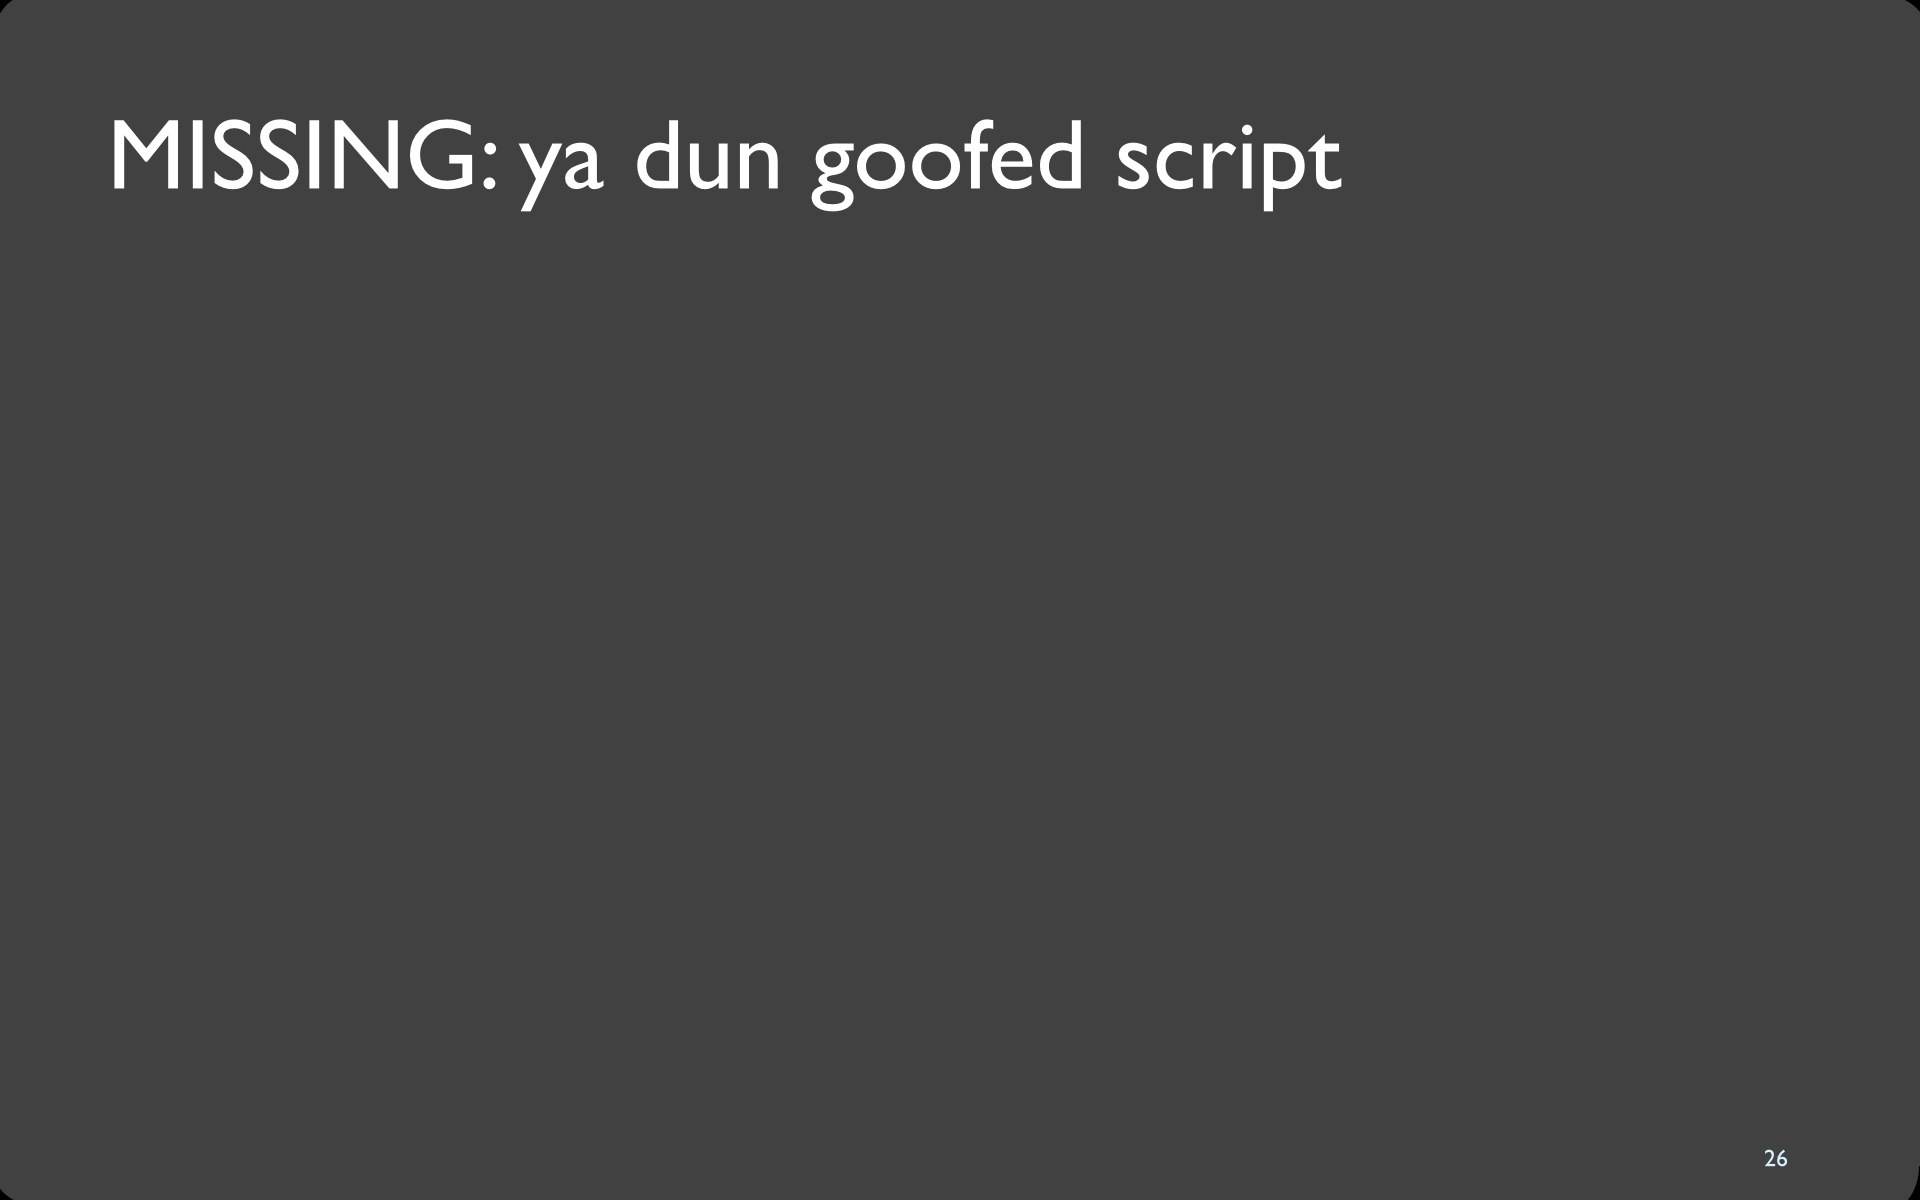
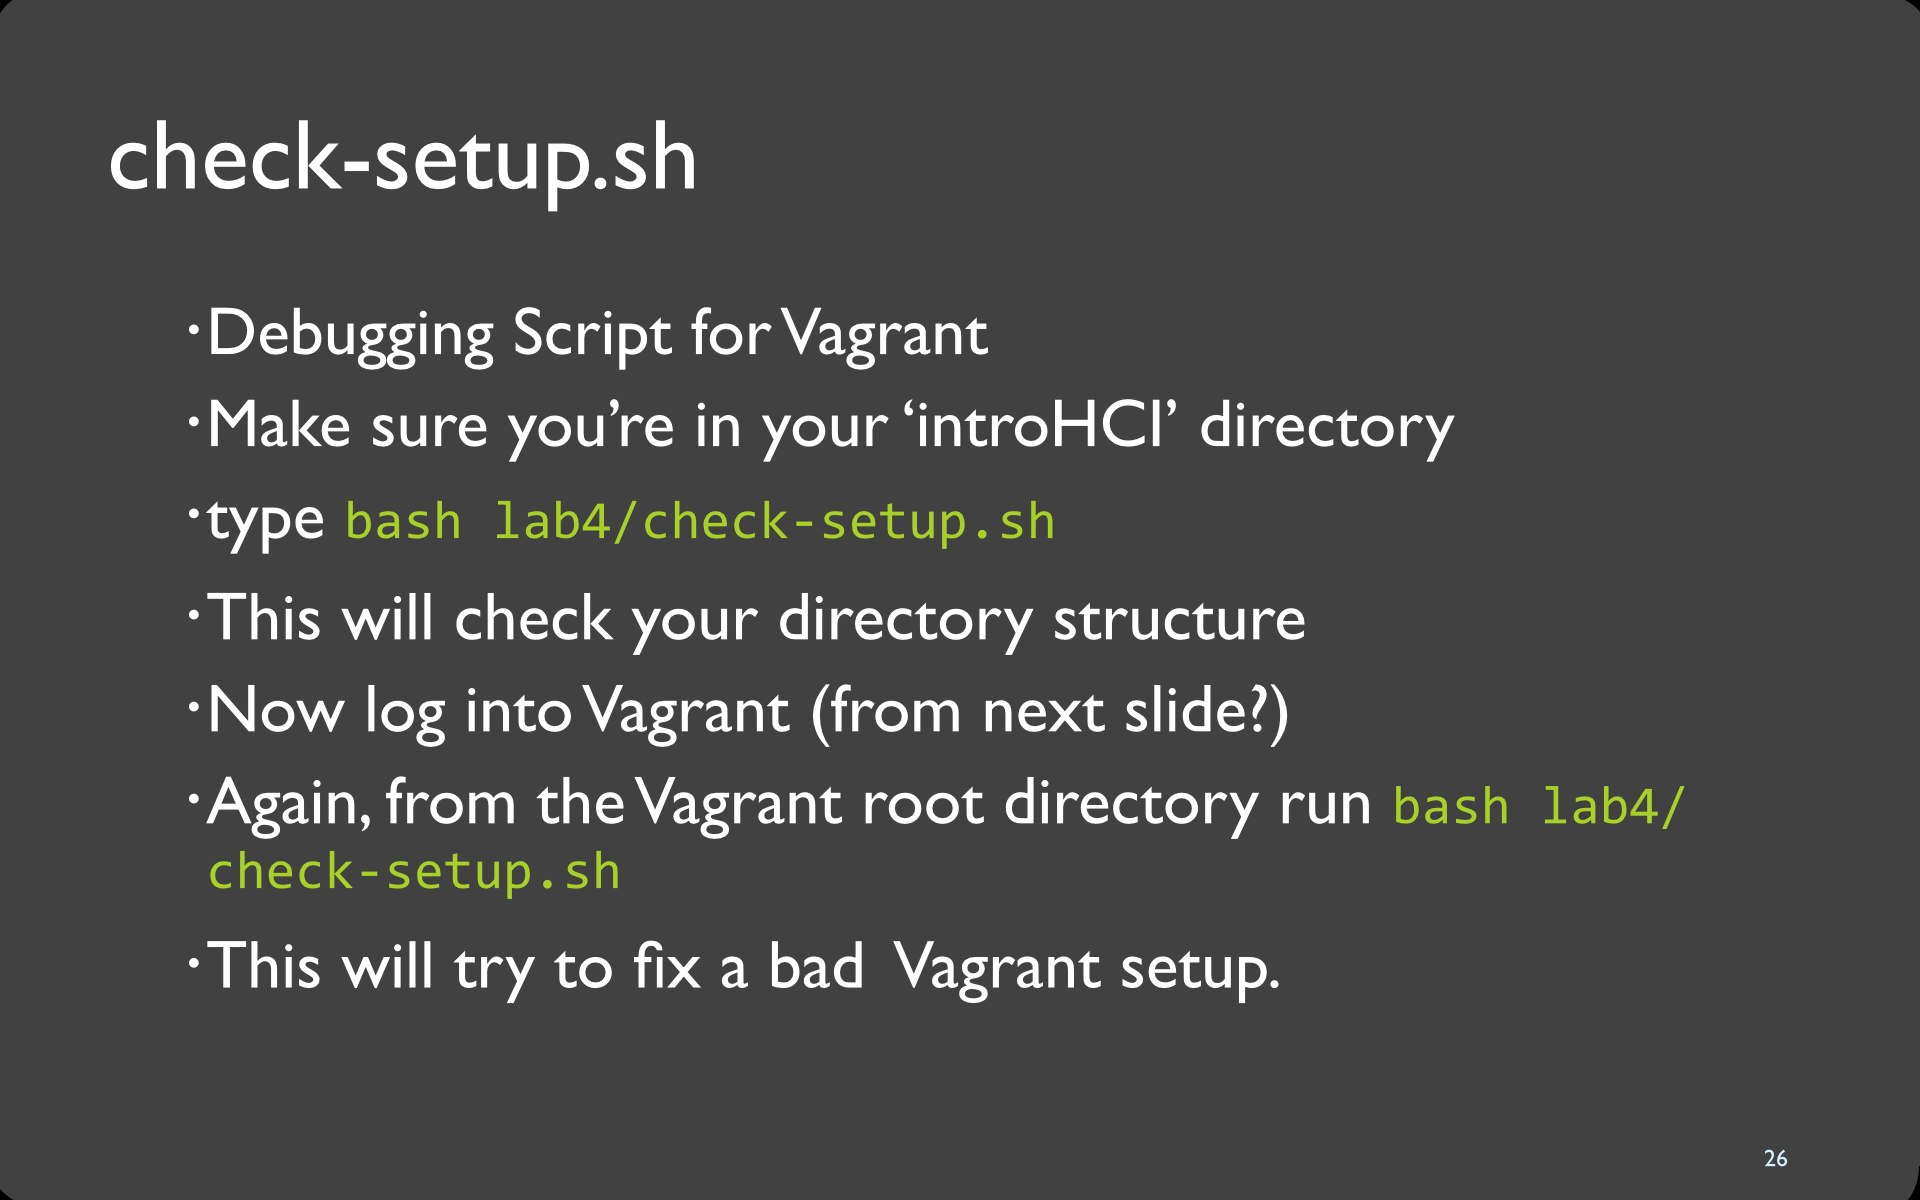
Launching Lab4 Live
Former-commit-id: fa6e5c5d4d07c0ebafd2a5339e181d4c2c8bad05
Former-commit-id: a451c25b95e6f8870425ea549eb2ef6743fb6caa
Former-commit-id: a436885919595212413f3003be64ce18ed0b29d2

diff --git a/lab/lab4/index.html b/lab/lab4/index.html
@@ -389,6 +389,19 @@
       title="26" />
     <div class="col-md-5">
       
+      <div class="code">
+        <h4>Terminal</h4>
+        <pre class='pre-scrollable'><code>$ bash lab4/check-setup.sh</code></pre>
+      </div>
+      
+      <div class="debug">
+        <h4>Debug</h4>
+        <div class="well well-sm">
+          <span class="lead"><p>I got the error <pre><code>bash: lab4/check-setup.sh: No such file or directory</code></pre></p></span>
+          <p>Make sure you're in your 'introHCI' directory and that you've cloned lab4 here.</p>
+        </div>
+      </div>
+      
     </div>
   </div>
 <hr></hr>
@@ -412,6 +425,10 @@ Express server listening on port 3000</code></pre>
         <div class="well well-sm">
           <span class="lead"><p>What's the vagrant password?</p></span>
           <p>vagrant</p>
+        </div>
+        <div class="well well-sm">
+          <span class="lead"><p>When I try to run <code>node app.js</code> I get a bunch of error messages, including the line <pre><code>Error: listen EADDRINUSE</code></pre></p></span>
+          <p>This probably happened because Node crashed.  For instance, Vagrant might have disconnected you all of a sudden.<br /> To fix this problem, tell your browser to refresh http://localhost:3000 until you get "No data received" or a similar message.  Now try starting Node again.  Everything should be fine. <br /><br />Explanation: The message <code>EADDRINUSE</code> means that Node can't start listening on port 3000 because it's already in use.  The problem is that the last instance of Node failed to properly release port 3000 when it crashed.  By refreshing the webpage, we're getting the OS to realize 'Oh, the Node server isn't using port 3000 anymore' and consequently release it.</p>
         </div>
       </div>
       
@@ -491,14 +508,6 @@ Express server listening on port 3000</code></pre>
       <div class="video">
         <h4>Video</h4>
         <video src='video/node-restart.mov' style='width:100%' controls preload="none" poster="../video-poster.jpg"></video>
-      </div>
-      
-      <div class="debug">
-        <h4>Debug</h4>
-        <div class="well well-sm">
-          <span class="lead"><p>When I try to run <code>node app.js</code> I get a bunch of error messages, including the line <pre><code>Error: listen EADDRINUSE</code></pre></p></span>
-          <p>This probably happened because Node crashed.  For instance, Vagrant might have disconnected you all of a sudden.<br /> To fix this problem, tell your browser to refresh http://localhost:3000 until you get "No data received" or a similar message.  Now try starting Node again.  Everything should be fine. <br /><br />Explanation: The message <code>EADDRINUSE</code> means that Node can't start listening on port 3000 because it's already in use.  The problem is that the last instance of Node failed to properly release port 3000 when it crashed.  By refreshing the webpage, we're getting the OS to realize 'Oh, the Node server isn't using port 3000 anymore' and consequently release it.</p>
-        </div>
       </div>
       
     </div>

diff --git a/lab/index.html b/lab/index.html
@@ -68,9 +68,9 @@
 
 		<div class="list-group">
       <a href="lab1/" class="list-group-item">Lab 1: Source control</a>
-      <a href="lab2/" class="list-group-item">Lab 2: Servers &amp; styling</a>
-		  <a href="lab3/" class="list-group-item active">Lab 3: Client-side interactivity</a>
-		  <div href="#" class="list-group-item">Lab 4</div>
+      <a href="lab2/" class="list-group-item">Lab 2: Styling</a>
+		  <a href="lab3/" class="list-group-item">Lab 3: Client-side interactivity</a>
+		  <a href="lab4/" class="list-group-item active">Lab 4: Servers</a>
 		  <div href="#" class="list-group-item">Lab 5</div>
 		  <div href="#" class="list-group-item">Lab 6</div>
 		  <div href="#" class="list-group-item">Lab 7</div>	

diff --git a/index.html b/index.html
@@ -156,7 +156,7 @@
 						</td>
 		              	<td>
 	              			<h6>January 22</h6>
-							<p><a href="./lab/lab3/">Client-side interactivity</p>
+							<p><a href="./lab/lab3/">Client-side interactivity</a></p>
 						</td>
 		              	<td>
 	              			<h6>Due Thursday, 1/23, 11:59 pm PDT</h6>
@@ -172,7 +172,7 @@
 						</td>
 		              	<td>
 	              			<h6>January 29</h6>
-							<p>Servers</p>
+							<p><a href="./lab/lab4/">Servers</a></p>
 						</td>
 		              	<td>
 	              			<h6>Due Thursday, 1/30, 11:59 pm PDT</h6>
